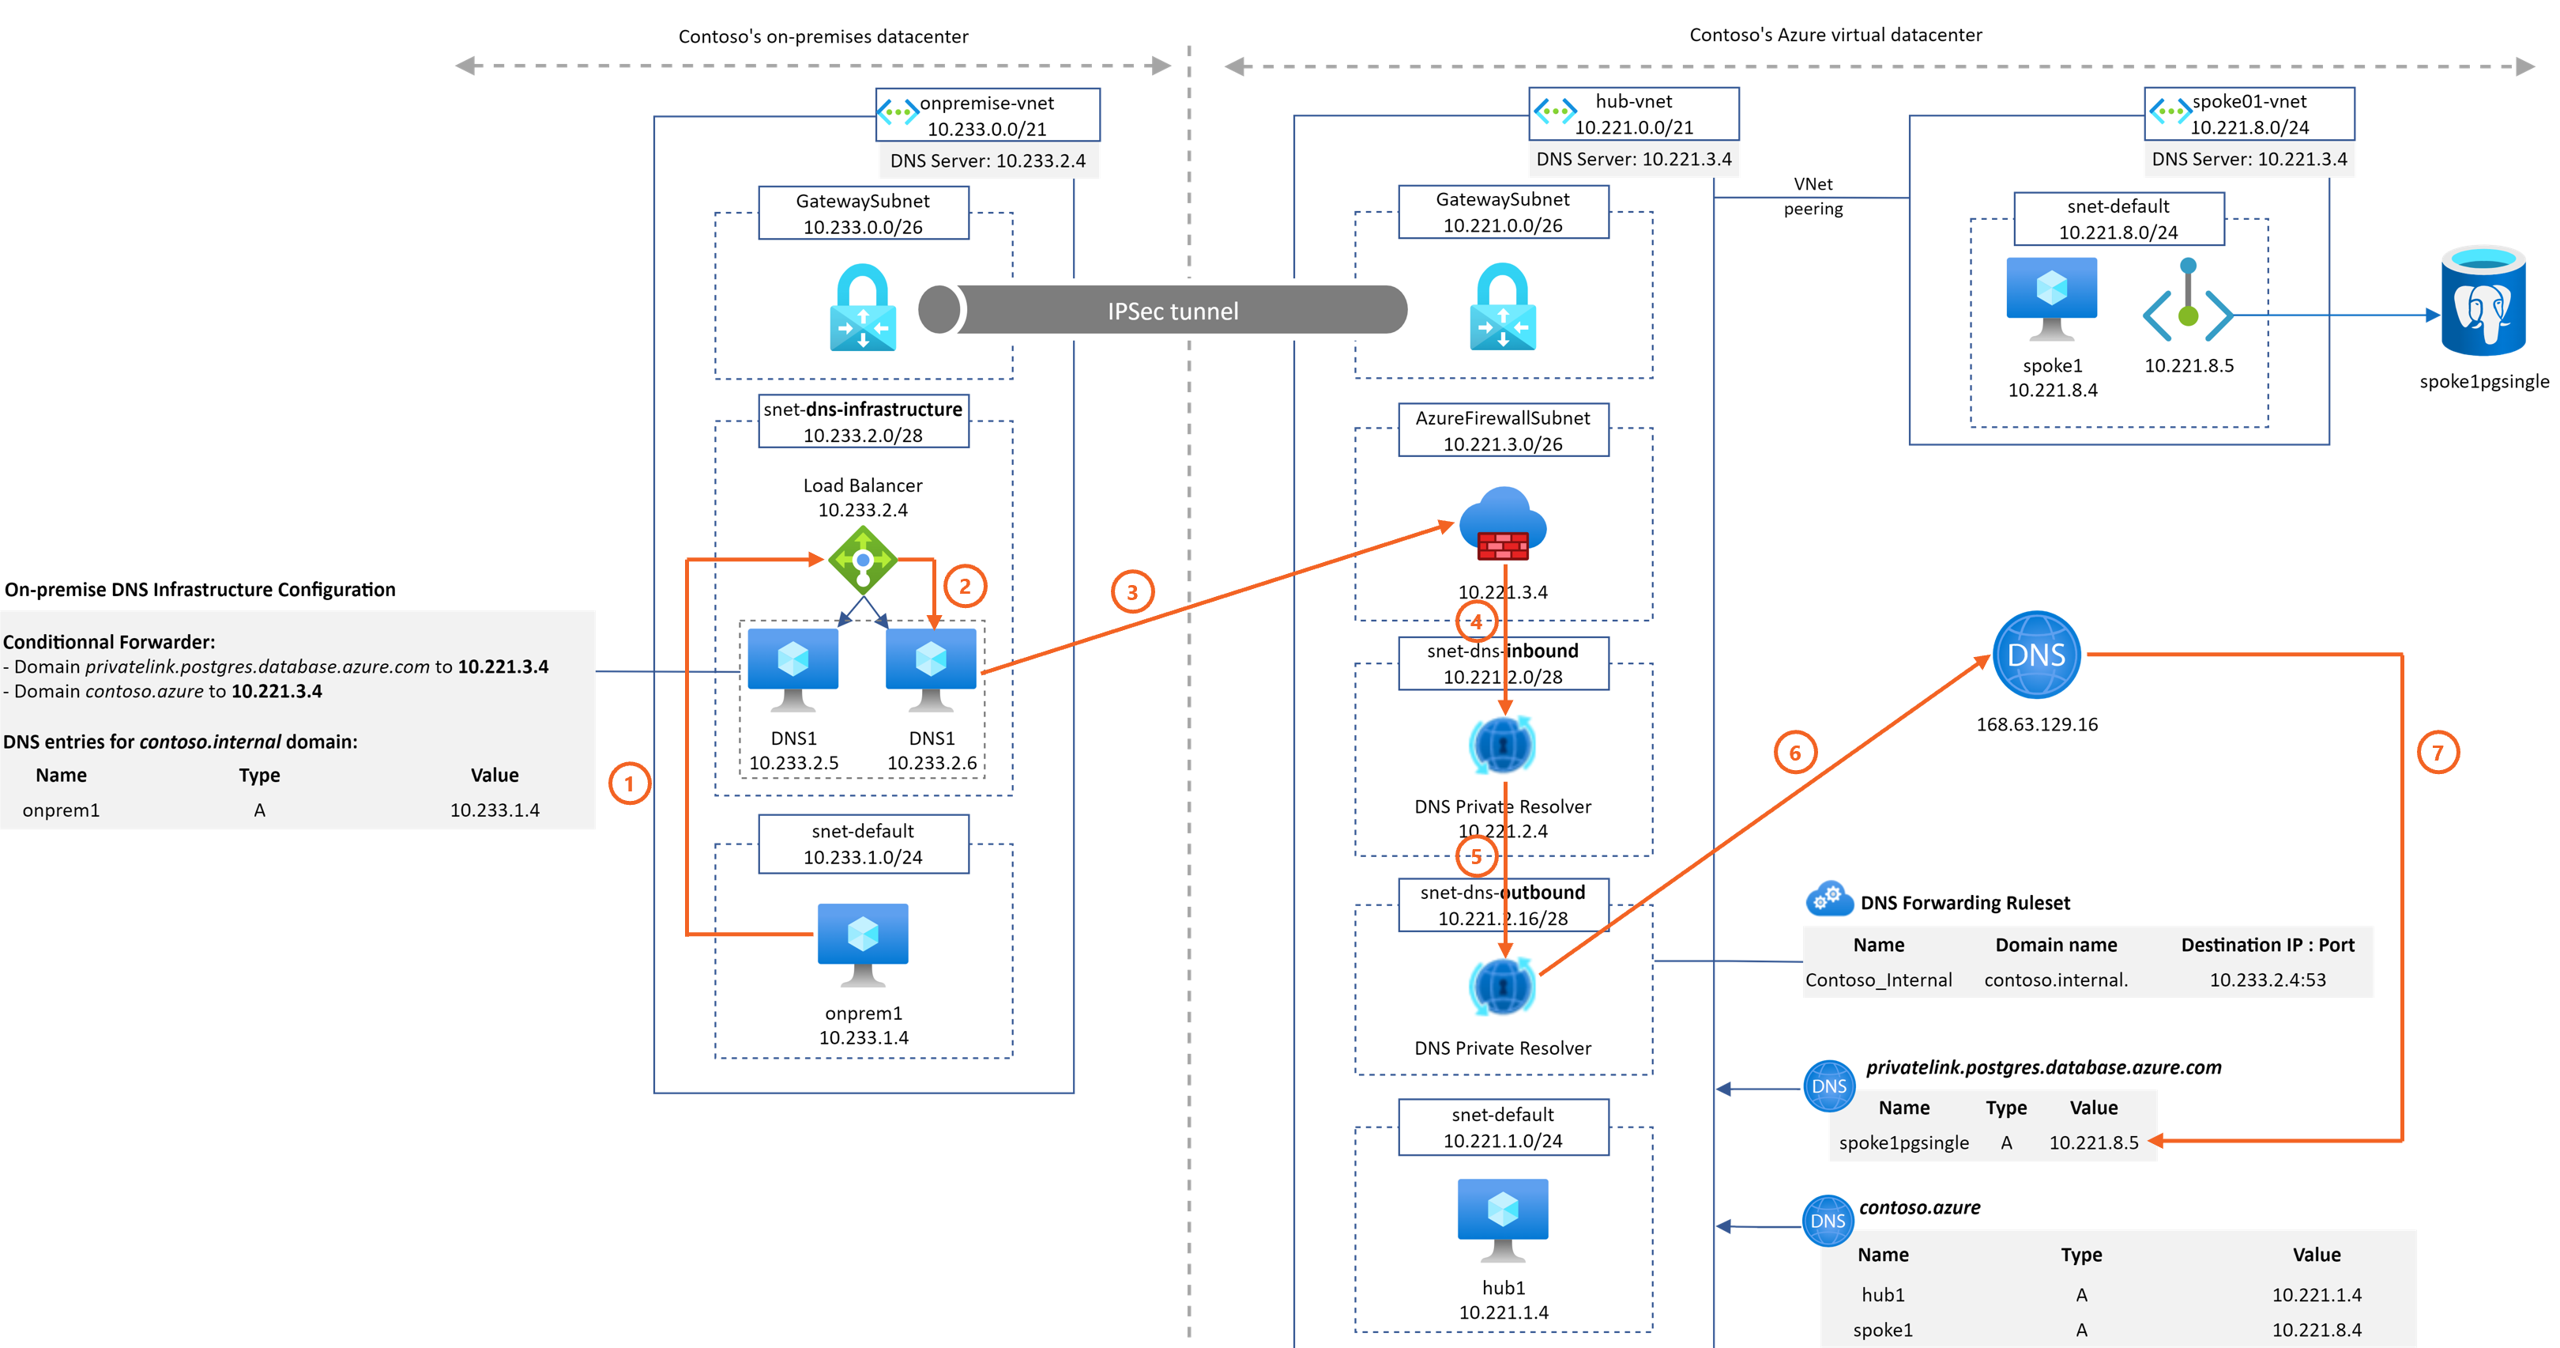
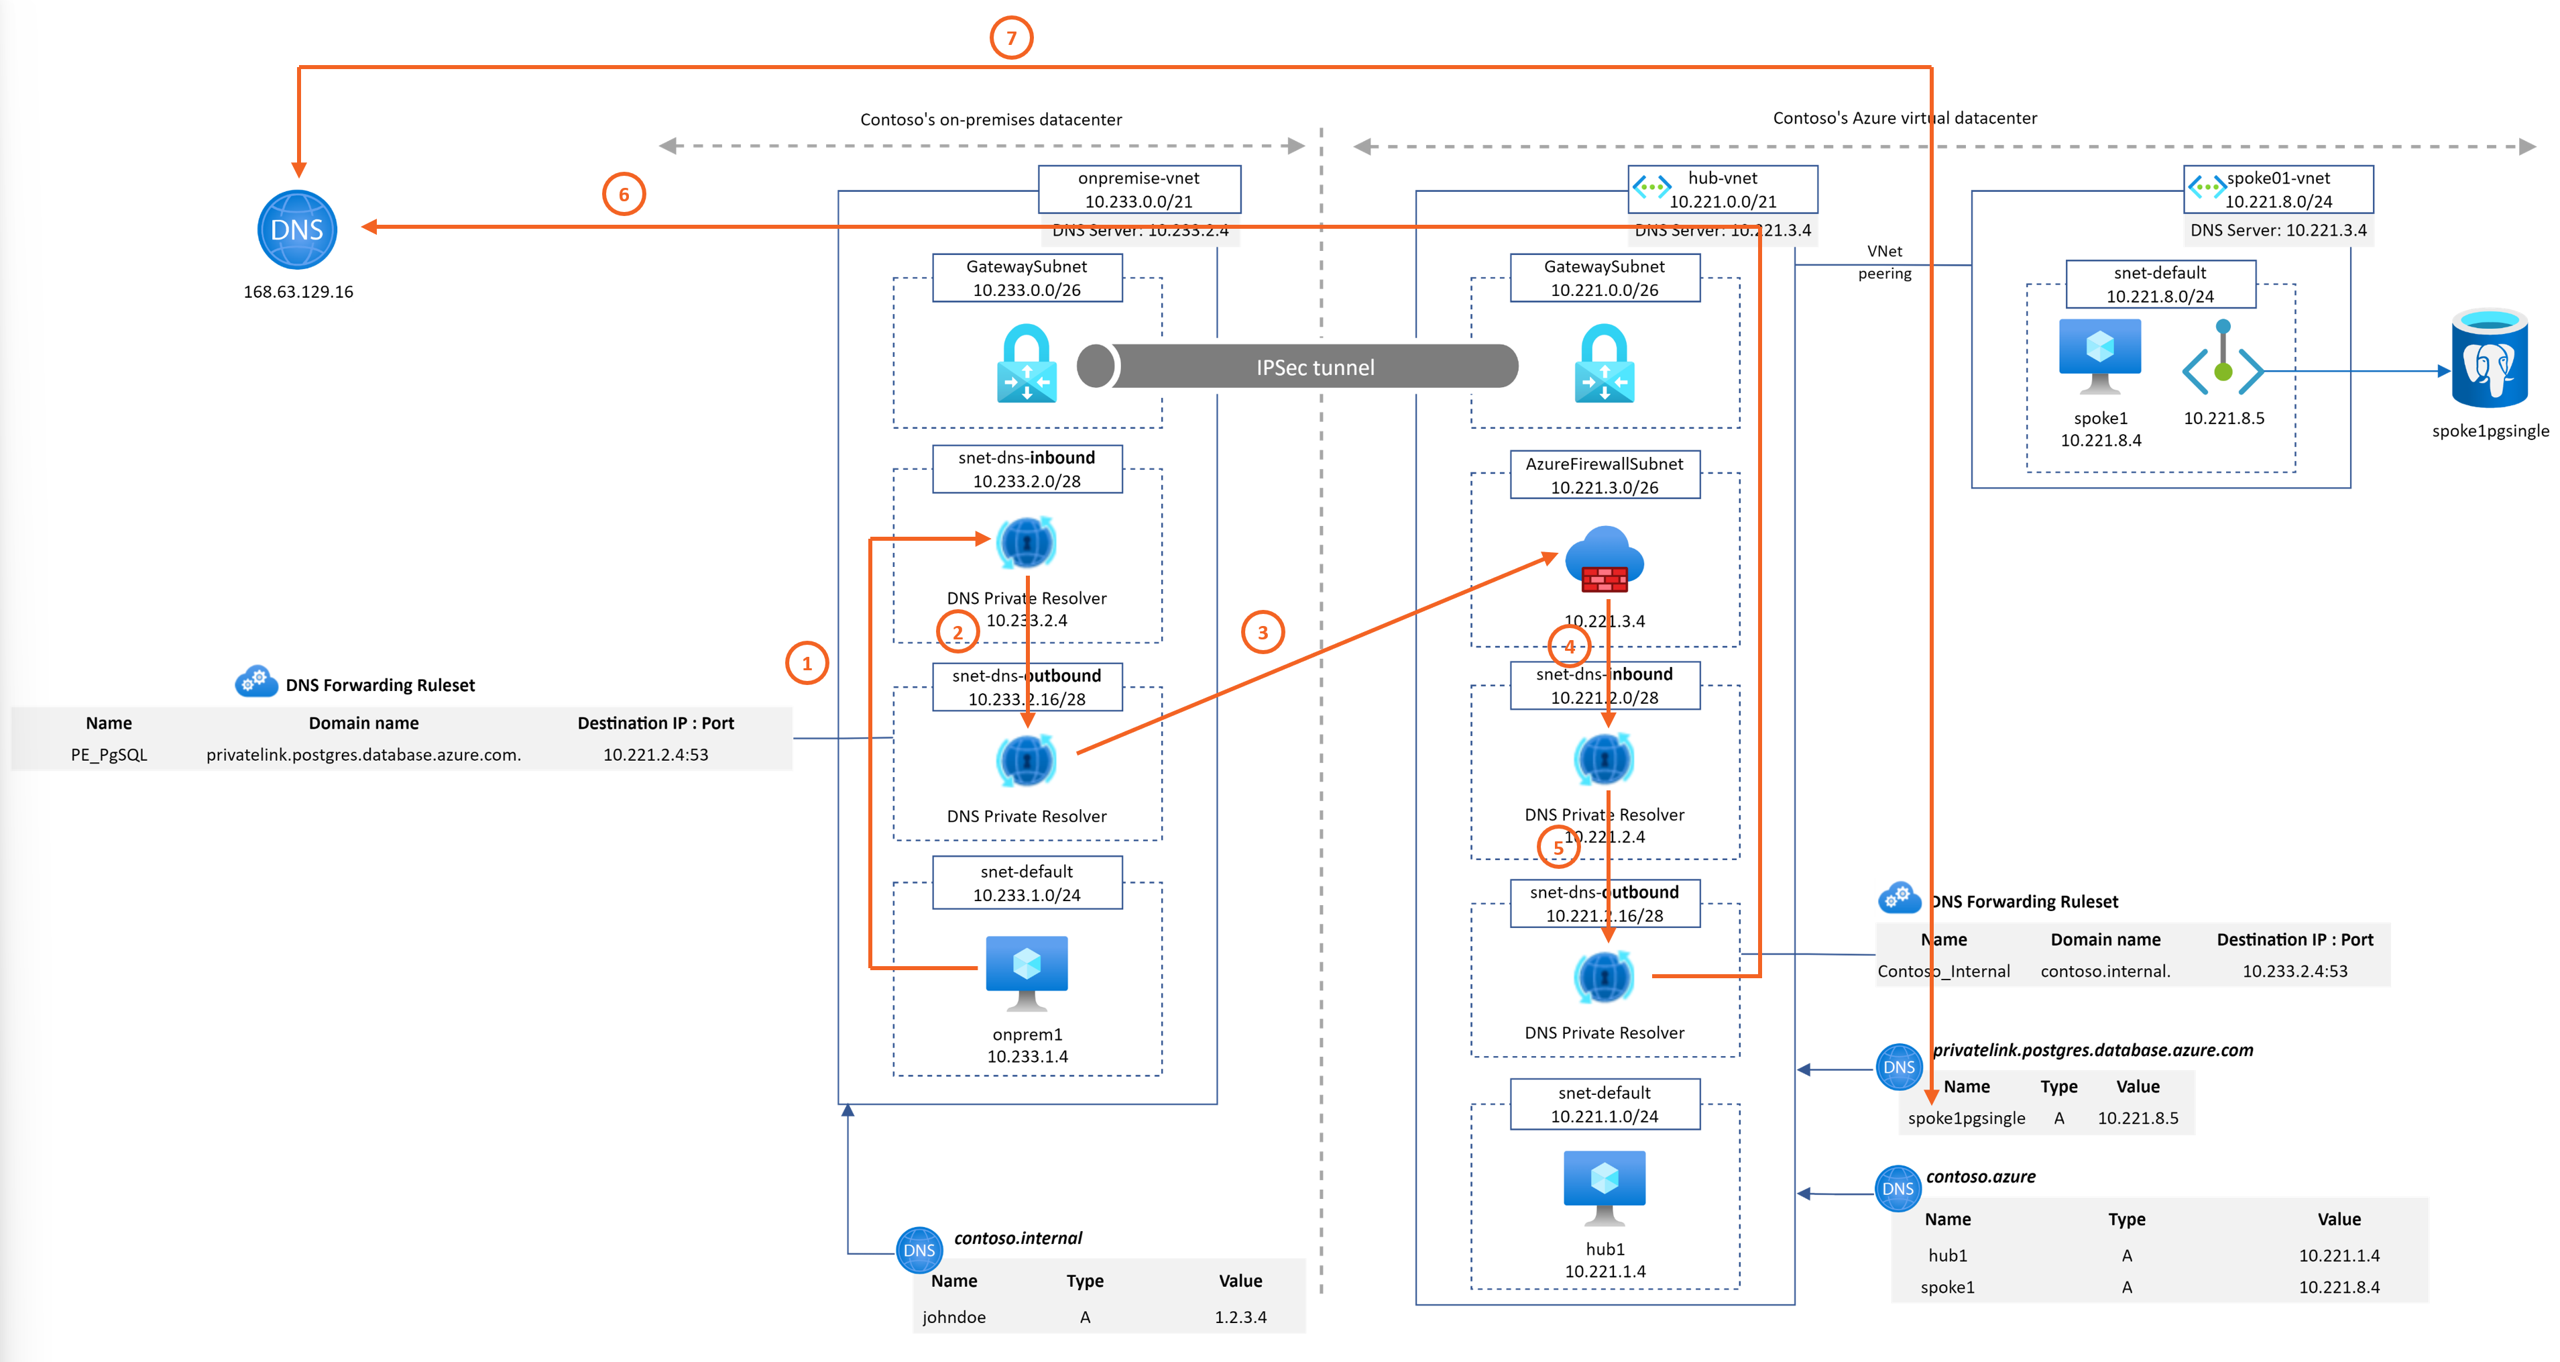
Multiple editions in the readme files and new schemas to fit with the deployed architecture

diff --git a/README.md b/README.md
@@ -39,7 +39,7 @@ We are going to use a predefined Terraform template to deploy the base environme
 
 To start the Terraform deployment, follow the steps listed below:
 
-- Login to Azure cloud shell [https://shell.azure.com/](https://shell.azure.com/)
+- Login to Azure cloud shell (Powershell is a requirement for future steps) [https://shell.azure.com/](https://shell.azure.com/)
 - Ensure that you are operating within the correct subscription via:
 
 `az account show`
@@ -81,8 +81,7 @@ Azure DNS Private Resolver cannot be deploy using Terraform currently as the ser
 - Verify you can access via Serial Console:
   - onpremise-vm in onpremise-rg 
   - hub-vm in hub-vnet in hub-rg 
-  - spoke01-vm in spoke01-rg 
-  - spoke02-vm in spoke02-rg
+  - spoke01-vm in spoke01-rg
 
 - Verify you can see hubdnsresolver and hubdnsruleset in hub-rg (**check** the *Show hidden types* checkbox)
 - Verify you can see onpremisednsresolver and onpremisednsruleset in onpremise-rg (**check** the *Show hidden types* checkbox)
@@ -116,11 +115,7 @@ It means that:
   
 ![image](images/nslookup-pgsql-spoke01.png)
 
-- *spoke01-t1q0mq-pgsql.postgres.database.azure.com* DNS resolution from spoke02-vm
-
-![image](images/nslookup-pgsql-spoke02.png)
-
-**Nevertheless, *"\*.postgres.database.azure.com"* DNS resolution is not possible from on-premise network** currently.
+**Nevertheless, *"\*.postgres.database.azure.com"* private DNS resolution is not possible from on-premise network currently and the public IP address associated with the database would be returned.**
 
 
 Let's configure DNS Forwarding Ruleset for both Hub and Onpremise to unlock these capabilities.
@@ -146,10 +141,6 @@ Let's configure DNS Forwarding Ruleset for both Hub and Onpremise to unlock thes
   
 ![image](images/nslookup-johndoe-spoke01.png)
 
-* From spoke02-vm
-  
-![image](images/nslookup-johndoe-spoke02.png)
-
 ## Task 2: Configure Onpremise DNS Forwarding Ruleset for postgresql domain
 
 1. In onpremise-rg, check "Show hidden types" and open Dns Forwarding Ruleset
@@ -160,7 +151,7 @@ Let's configure DNS Forwarding Ruleset for both Hub and Onpremise to unlock thes
 ![image](images/dnsforwardingruleset-onpremise.png)
 
 
-  > If you plan to go add other PaaS Services during this MicroHack and want to enable DNS resolution from on-premise, it will be required too add additional Private DNS zone name. Full list is available [here](https://docs.microsoft.com/en-us/azure/private-link/private-endpoint-dns).
+  > If you plan to go add other PaaS Services during this MicroHack and want to enable DNS resolution from on-premise, it will be required to add additional Private DNS zone name. Full list is available [here](https://docs.microsoft.com/en-us/azure/private-link/private-endpoint-dns).
 
 3. Check *spoke01-t1q0mq-pgsql.postgres.database.azure.com* DNS resolution from onpremise-vm
 
@@ -178,7 +169,7 @@ Let's configure DNS Forwarding Ruleset for both Hub and Onpremise to unlock thes
 
 # Challenge 2: Deploy Azure Firewall to get DNS logs
 
-Azure DNS Private Resolve does not offer today to view the logs of DNS requests made.
+Azure DNS Private Resolver does not offer today capabilities to view the logs of DNS requests made.
 
 A solution to have these logs is to deploy Azure Firewall and use it as a DNS proxy:
 * Hub & Spokes vnets will have their DNS Servers configured with Private IP address of Azure Firewall
@@ -192,7 +183,7 @@ In the Azure Portal, deploy a new Azure Firewall instance in the hub-vnet. A sub
 
 ![image](images/azurefirewall-provisionning.png)
 
-Your Azure Firewall instance will take about 10 minutes to deploy. When the deployment completes, go to the new firewall's overview tile a take note of its *private* IP address. 
+Your Azure Firewall instance will take about 10 minutes to deploy. When the deployment completes, go to the new firewall's overview tile and take note of its *private* IP address. 
 
 ## Task 2: Configure Azure Firewall DNS proxy
 
@@ -202,13 +193,13 @@ Configure Azure Firewall as a DNS Proxy: all requests will be forward to DNS Pri
 
 ## Task 3: Update Hub and spokes Vnet DNS Settings
 
-Instead of configuring DNS Private Resolver Inbound IP address as DNS Server for hub-vnet, spoke01-vnet and spoke02-vnet, configure with Azure Firewall private IP address:
+Instead of configuring DNS Private Resolver Inbound IP address as DNS Server for hub-vnet and spoke01-vnet, configure with Azure Firewall private IP address:
 
 ![image](images/dnsservers-hub.png)
 
-**Do the same for spoke01-vnet and spoke02-vnet**.
+**Do the same for spoke01-vnet**.
 
-**Restart** hub-vm, spoke01-vm and spoke02-vm.
+**Restart** hub-vm and spoke01-vm.
 
   > DNS server(s) used by Azure virtual machine (VM) come during VM boot via DHCP. By restarting VMs here, they will pick the new DNS server to use.
 
@@ -232,11 +223,31 @@ Configure Azure Firewall Diagnostic Settings to send its logs to *networkmonitor
 
 ## Task 6: Generate DNS request from Azure Hub&spokes VM and display logs
 
-Generate DNS requests from spoke02-vm:
+Generate DNS requests from spoke01-vm:
 
-![image](images/spoke02-dnsrequests-azfw.png)
+![image](images/spoke01-dnsrequests-azfw.png)
 
-Display Azure Firewall DNS logs:
+Display Azure Firewall DNS logs using the following query
+```
+// Azure Firewall DNS proxy log data 
+// Start from this query if you want to understand the Firewall DNS proxy log data. This query will show the last 100 log records but by adding simple filter statements at the end of the query the results can be tweaked. 
+// DNS proxy log data 
+// Parses the DNS proxy log data. 
+AzureDiagnostics
+| where Category == "AzureFirewallDnsProxy"
+| parse msg_s with "DNS Request: " SourceIP ":" SourcePortInt:int " - " QueryID:int " " RequestType " " RequestClass " " hostname ". " protocol " " details
+| extend
+    ResponseDuration = extract("[0-9]*.?[0-9]+s$", 0, msg_s),
+    SourcePort = tostring(SourcePortInt),
+    QueryID =  tostring(QueryID)
+| project TimeGenerated,SourceIP,hostname,RequestType,ResponseDuration,details,msg_s
+| order by TimeGenerated
+| limit 100
+```
+
+You can then observe the associated DNS queries in you Azure infrastructure passing through the Azure Firewall
+
+![image](images/azurefirewall-dnslogs.png)
 
 ## :checkered_flag: Results
 
